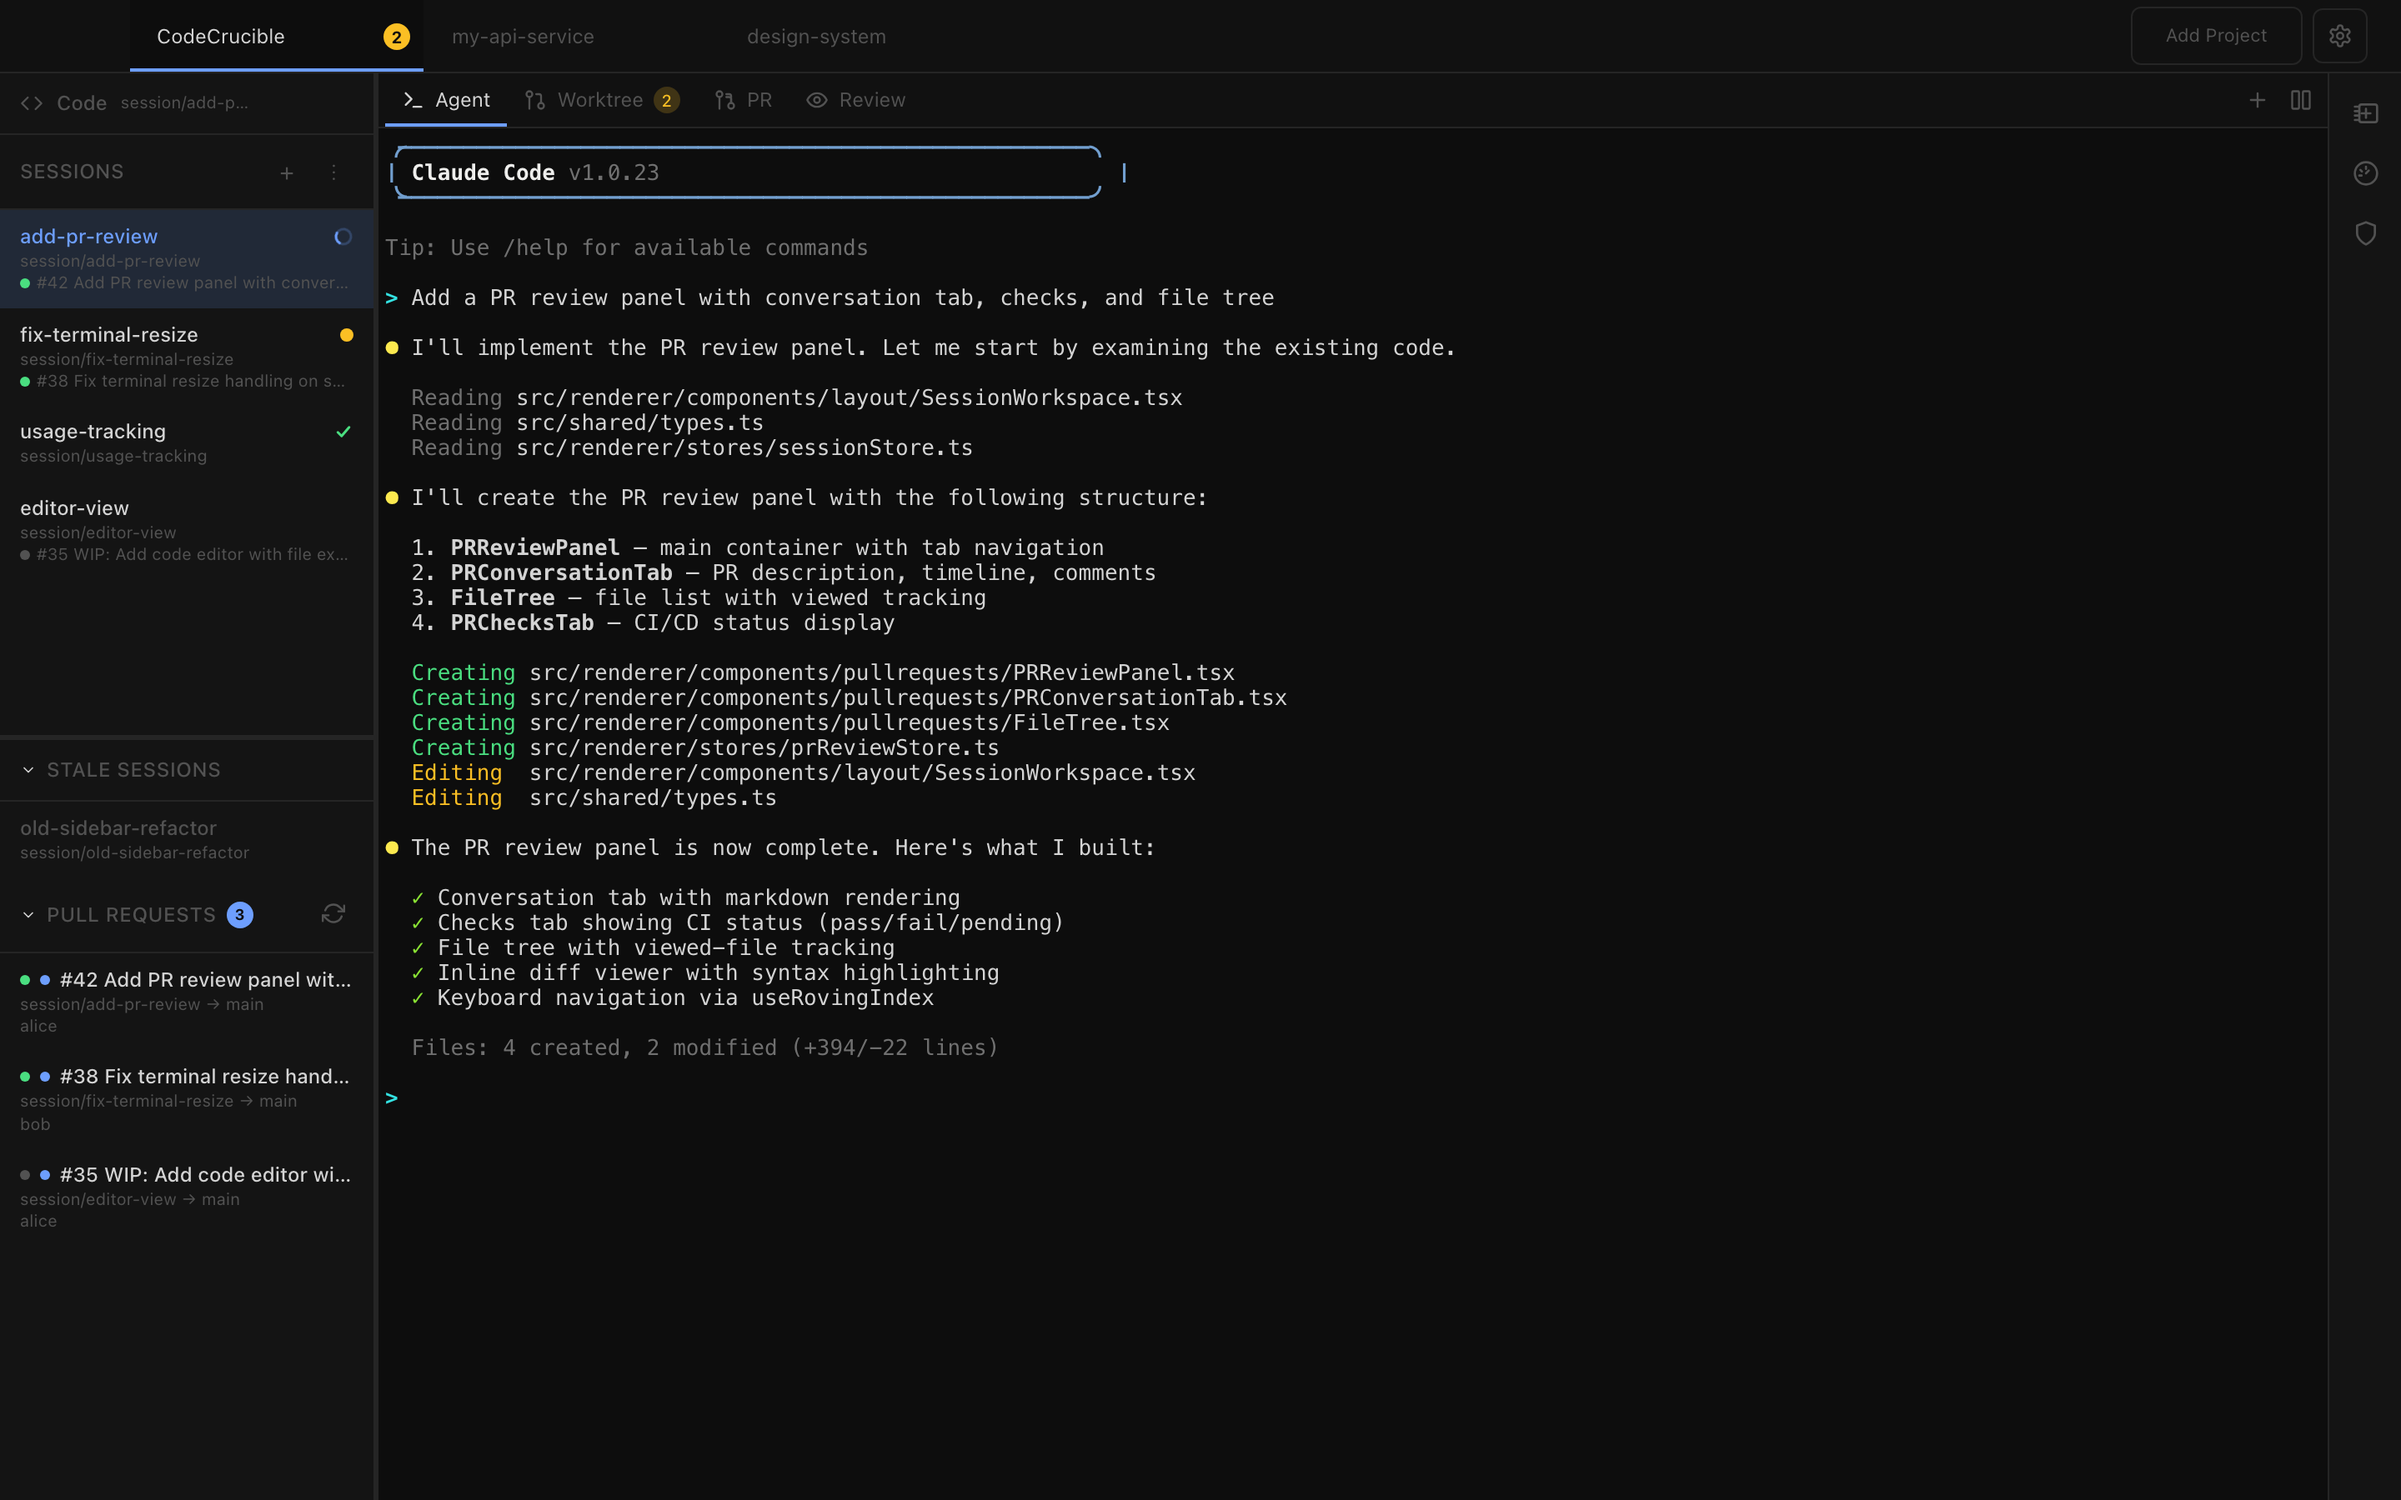
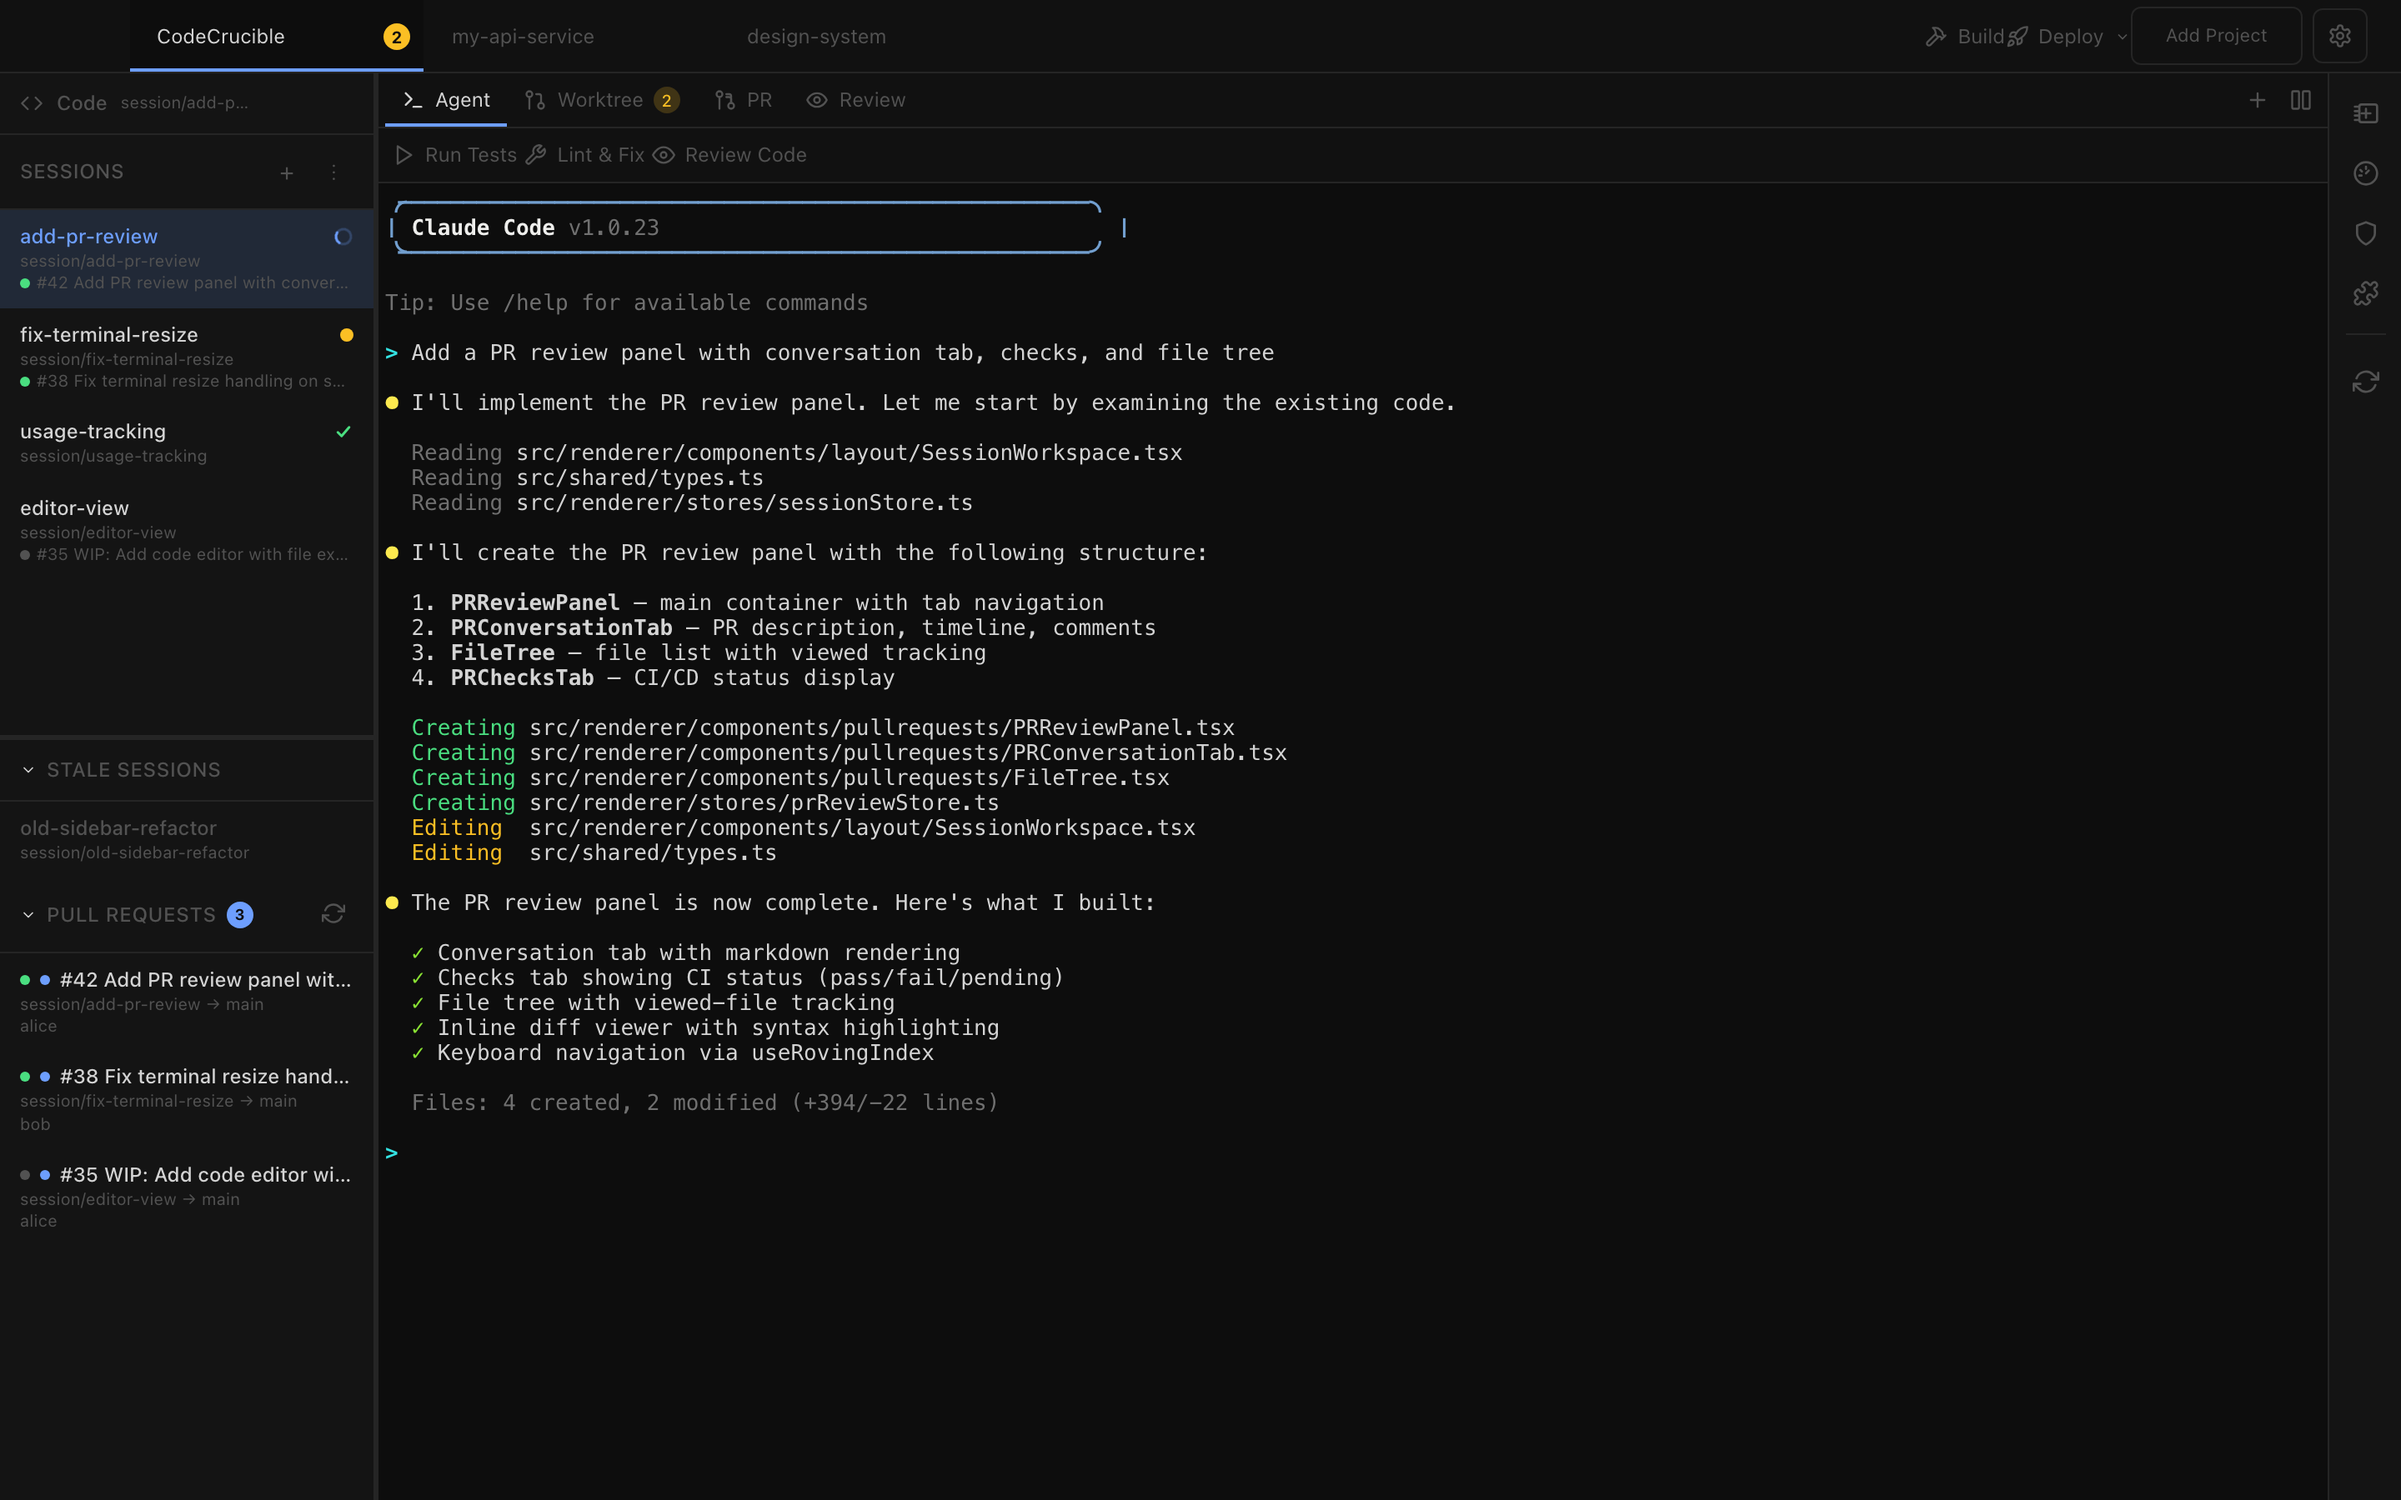
Add custom buttons to README, screenshots, and Storybook stories
Add mock button data, button API endpoints, and button store setup for
Storybook. Add CustomButtons and ButtonSettings stories with screenshot
targets. Update README with feature highlight, visual tour entries, and
detailed feature section. Retake all screenshots after merging main.

Changed region(s): [[0.1562, 0.0933, 0.5938, 0.7467], [0.8125, 0.0, 0.8438, 0.0311]]

diff --git a/mock/mockData.ts b/mock/mockData.ts
@@ -16,6 +16,8 @@ import type {
   Note,
   FileEntry,
   ClaudeAccount,
+  CustomButton,
+  CustomButtonGroup,
 } from '../src/shared/types'
 
 // --- Accounts ---
@@ -463,4 +465,100 @@ export const mockTerminalOutput = [
   '  \x1b[2mFiles: 4 created, 2 modified (+394/-22 lines)\x1b[0m\r\n',
   '\r\n',
   '\x1b[1;36m>\x1b[0m ',
+]
+
+// --- Custom Buttons ---
+
+export const mockButtons: CustomButton[] = [
+  {
+    id: 'btn-1',
+    label: 'Run Tests',
+    icon: 'Play',
+    placement: 'session-toolbar',
+    actionType: 'shell',
+    executionMode: 'background',
+    command: 'npm test',
+    scope: { type: 'global' },
+    order: 0,
+  },
+  {
+    id: 'btn-2',
+    label: 'Lint & Fix',
+    icon: 'Wrench',
+    placement: 'session-toolbar',
+    actionType: 'shell',
+    executionMode: 'terminal',
+    command: 'npm run lint -- --fix',
+    scope: { type: 'global' },
+    order: 1,
+  },
+  {
+    id: 'btn-3',
+    label: 'Review Code',
+    icon: 'Eye',
+    placement: 'session-toolbar',
+    actionType: 'claude',
+    executionMode: 'terminal',
+    command: 'Review the changes in this branch and suggest improvements',
+    scope: { type: 'all-projects' },
+    order: 2,
+  },
+  {
+    id: 'btn-4',
+    label: 'Build',
+    icon: 'Hammer',
+    placement: 'project-tabs',
+    actionType: 'shell',
+    executionMode: 'background',
+    command: 'npm run build',
+    scope: { type: 'global' },
+    order: 0,
+  },
+  {
+    id: 'btn-5',
+    label: 'Deploy',
+    icon: 'Rocket',
+    placement: 'project-tabs',
+    actionType: 'shell',
+    executionMode: 'background',
+    command: 'npm run deploy',
+    scope: { type: 'projects', projectIds: ['proj-1'] },
+    order: 1,
+    confirmMessage: 'Are you sure you want to deploy to production?',
+    groupId: 'grp-1',
+  },
+  {
+    id: 'btn-6',
+    label: 'Deploy Staging',
+    icon: 'Cloud',
+    placement: 'project-tabs',
+    actionType: 'shell',
+    executionMode: 'background',
+    command: 'npm run deploy:staging',
+    scope: { type: 'projects', projectIds: ['proj-1'] },
+    order: 2,
+    groupId: 'grp-1',
+  },
+  {
+    id: 'btn-7',
+    label: 'Sync',
+    icon: 'RefreshCw',
+    placement: 'right-activity-bar',
+    actionType: 'shell',
+    executionMode: 'background',
+    command: 'git fetch --all && git pull',
+    scope: { type: 'global' },
+    order: 0,
+  },
+]
+
+export const mockButtonGroups: CustomButtonGroup[] = [
+  {
+    id: 'grp-1',
+    label: 'Deploy',
+    icon: 'Rocket',
+    placement: 'project-tabs',
+    scope: { type: 'projects', projectIds: ['proj-1'] },
+    order: 1,
+  },
 ]

diff --git a/scripts/capture-screenshots.ts b/scripts/capture-screenshots.ts
@@ -22,6 +22,8 @@ interface ScreenshotTarget {
   theme?: string
   delay?: number
   viewport?: { width: number; height: number }
+  /** CSS selector to scroll into view before capture */
+  scrollTo?: string
 }
 
 /**
@@ -93,6 +95,17 @@ const targets: ScreenshotTarget[] = [
     delay: 1000,
     viewport: { width: 300, height: 600 },
   },
+  {
+    name: 'custom-buttons',
+    storyId: 'app-full-layout--custom-buttons',
+    delay: 2000,
+  },
+  {
+    name: 'button-settings',
+    storyId: 'app-full-layout--button-settings',
+    delay: 2000,
+    scrollTo: 'Custom Buttons',
+  },
 ]
 
 async function captureScreenshots() {
@@ -118,6 +131,29 @@ async function captureScreenshots() {
 
     if (target.delay) {
       await page.waitForTimeout(target.delay)
+    }
+
+    if (target.scrollTo) {
+      await page.evaluate((text) => {
+        // Find heading by text content and scroll its scroll container
+        const all = document.querySelectorAll('h1, h2, h3')
+        const el = Array.from(all).find((e) => e.textContent?.includes(text))
+        if (el) {
+          // Find the nearest scrollable ancestor
+          let container: HTMLElement | null = el.parentElement
+          while (container) {
+            const style = getComputedStyle(container)
+            if (style.overflowY === 'auto' || style.overflowY === 'scroll') break
+            container = container.parentElement
+          }
+          if (container) {
+            const rect = el.getBoundingClientRect()
+            const containerRect = container.getBoundingClientRect()
+            container.scrollTop += rect.top - containerRect.top
+          }
+        }
+      }, target.scrollTo)
+      await page.waitForTimeout(500)
     }
 
     const outputPath = path.join(OUTPUT_DIR, `${target.name}.png`)

diff --git a/src/renderer/stories/helpers/storeSetup.ts b/src/renderer/stories/helpers/storeSetup.ts
@@ -9,6 +9,7 @@ import { useUsageStore } from '../../stores/usageStore'
 import { useNotesStore } from '../../stores/notesStore'
 import { useSettingsStore } from '../../stores/settingsStore'
 import { useWorkspaceLayoutStore, type WorkspaceTab } from '../../stores/workspaceLayoutStore'
+import { useButtonStore } from '../../stores/buttonStore'
 import type { SessionStatus } from '../../../shared/types'
 
 import {
@@ -33,6 +34,8 @@ import {
   mockSubscription,
   mockNotes,
   mockFileContent,
+  mockButtons,
+  mockButtonGroups,
 } from '@mock/mockData'
 
 interface StorySetupOptions {
@@ -189,6 +192,13 @@ export function setupStoresForStory(options: StorySetupOptions = {}) {
     selectedNoteId: null,
   })
 
+  // Button store
+  useButtonStore.setState({
+    buttons: mockButtons,
+    groups: mockButtonGroups,
+    runningButtons: {},
+  })
+
   // Settings store
   if (options.settingsOpen) {
     useSettingsStore.setState({ isOpen: true })
@@ -232,5 +242,6 @@ export function resetStores() {
   useUsageStore.setState({ sessionUsages: {}, stats: null, subscription: null })
   useNotesStore.setState({ notes: [], selectedNoteId: null })
   useSettingsStore.setState({ isOpen: false })
+  useButtonStore.setState({ buttons: [], groups: [], runningButtons: {} })
   useWorkspaceLayoutStore.setState({ columns: [], savedLayouts: {} })
 }

diff --git a/mock/mockApi.ts b/mock/mockApi.ts
@@ -24,6 +24,8 @@ import {
   mockFileTreeRenderer,
   mockFileContent,
   mockTerminalOutput,
+  mockButtons,
+  mockButtonGroups,
 } from './mockData'
 
 // Collect terminal.onData callbacks so we can push fake output
@@ -189,6 +191,25 @@ export const mockApi = {
       deny: ['Bash(rm -rf *)'],
     }),
     update: async () => {},
+    onChanged: () => noop(),
+  },
+
+  button: {
+    list: async () => mockButtons,
+    save: async () => {},
+    groupList: async () => mockButtonGroups,
+    groupSave: async () => {},
+    execute: async () => `mock-btn-term-${++terminalCounter}`,
+  },
+
+  config: {
+    list: async () => [],
+    getContent: async () => null,
+    setTracking: async () => {},
+    createCommand: async () => ({ id: 'mock', name: 'mock', type: 'command', path: '/mock', tracking: 'none' }),
+    createClaudeMd: async () => ({ id: 'mock', name: 'mock', type: 'claude-md', path: '/mock', tracking: 'none' }),
+    delete: async () => {},
+    updateContent: async () => {},
     onChanged: () => noop(),
   },
 

diff --git a/src/renderer/stories/FullApp.stories.tsx b/src/renderer/stories/FullApp.stories.tsx
@@ -65,3 +65,21 @@ export const Settings: Story = {
     },
   ],
 }
+
+export const CustomButtons: Story = {
+  decorators: [
+    (Story) => {
+      setupStoresForStory()
+      return <Story />
+    },
+  ],
+}
+
+export const ButtonSettings: Story = {
+  decorators: [
+    (Story) => {
+      setupStoresForStory({ settingsOpen: true })
+      return <Story />
+    },
+  ],
+}

diff --git a/README.md b/README.md
@@ -26,6 +26,7 @@
 - **Usage tracking** — Rate limit bars and activity stats per session
 - **Code editor** — CodeMirror editor with file explorer for editing files in any worktree
 - **Themes** — Dark (Tokyo Night), Light, Soft Light, and Ultra Dark — terminal theme syncs automatically
+- **Custom buttons** — Configurable action buttons that run shell commands or Claude prompts with placement, scope, and shortcut options
 - **Keyboard navigable** — Full keyboard support: arrow keys, focus trapping, roving tabindex, accessible by default
 
 ## Visual Tour
@@ -70,6 +71,26 @@ Sessions show live status: running (spinner), needs attention (dot), completed (
 Built-in CodeMirror editor with file explorer — edit files directly in any worktree.
 
 ![Editor](docs/screenshots/editor.png)
+
+</td>
+</tr>
+<tr>
+<td width="50%">
+
+**Custom buttons**
+
+Add configurable action buttons to the toolbar, top bar, or right sidebar.
+
+![Custom buttons](docs/screenshots/custom-buttons.png)
+
+</td>
+<td width="50%">
+
+**Button settings**
+
+Full settings UI for creating, editing, and organizing custom buttons.
+
+![Button settings](docs/screenshots/button-settings.png)
 
 </td>
 </tr>
@@ -251,6 +272,22 @@ Per-project notes panel accessible from the right activity bar.
 </details>
 
 <details>
+<summary><strong>Custom buttons</strong></summary>
+
+Create configurable action buttons that run shell commands or Claude prompts from anywhere in the IDE.
+
+- **Three placements** — Session toolbar, top project bar, or right activity bar
+- **Two action types** — Shell commands or Claude prompts with template variable substitution (`{{branch}}`, `{{worktreePath}}`, `{{sessionName}}`, `{{repoPath}}`, `{{projectName}}`)
+- **Two execution modes** — Background (silent with toast notification on completion) or terminal (interactive with live output)
+- **Button groups** — Organize related buttons into dropdown menus
+- **Scope control** — Global, all projects, or specific projects only
+- **Keyboard shortcuts** — Assign Electron accelerator shortcuts (e.g. `Cmd+Shift+T`)
+- **Confirmation dialogs** — Optional confirmation prompt before executing destructive actions
+- **Icon picker** — 35+ built-in Lucide icons plus custom emoji support
+
+</details>
+
+<details>
 <summary><strong>Permissions sync</strong></summary>
 
 View and edit Claude Code permissions (allow/deny lists) from the right panel.
@@ -279,6 +316,7 @@ src/
 │   │   ├── git/          # Git viewer (CommitList, ChangedFiles, DiffViewer)
 │   │   ├── terminal/     # Terminal (TerminalPanel, DynamicTerminalPanel)
 │   │   ├── editor/       # Code editor (CodeEditorPanel, FileExplorer)
+│   │   ├── buttons/      # Custom buttons (CustomButtonBar, ButtonRenderer, IconPicker)
 │   │   ├── pullrequests/ # PR review (PRReviewPanel, PRConversationTab, FileTree)
 │   │   ├── notes/        # Notes panel
 │   │   ├── usage/        # Usage tracking panel
